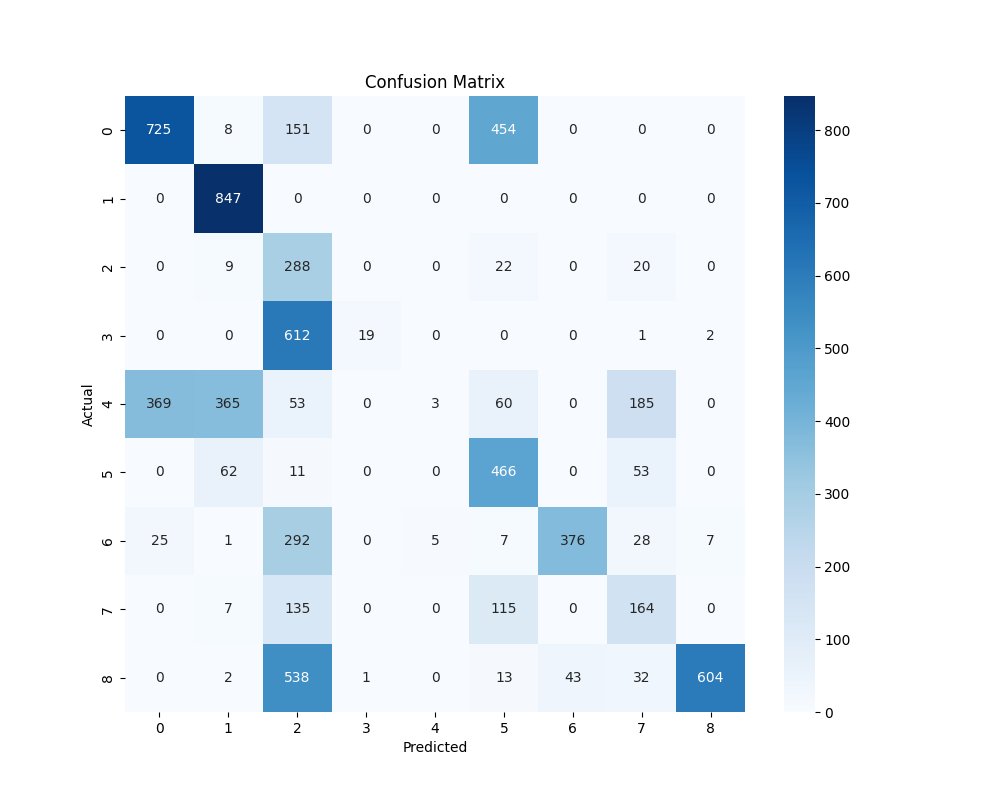
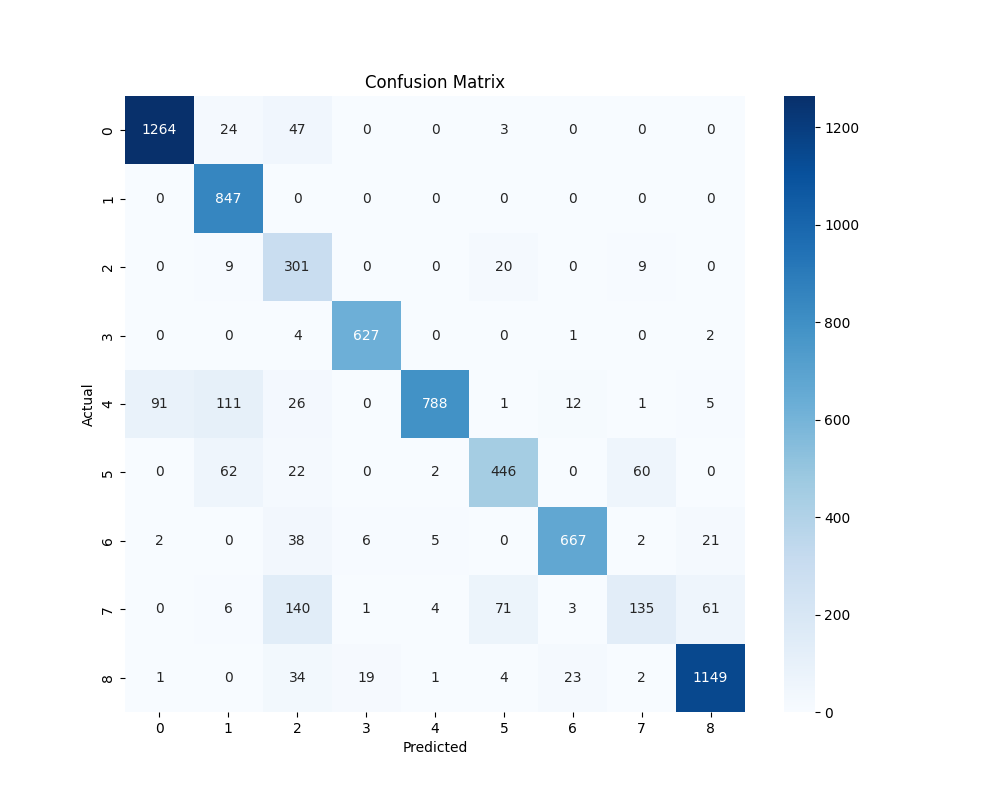
updated simple_cnn to better handle downsampling, updated final result size to 3x3 instead of 4x4 to prevent stretching. updated data_utils.py to normalize mean and variance of data

diff --git a/utils/data_utils.py b/utils/data_utils.py
@@ -1,49 +1,51 @@
 import torch
 import numpy as np
 from medmnist import PathMNIST
+from torchvision import transforms
+from torch.utils.data import Dataset
+
+
+class PathMNISTWrapper(Dataset):
+    def __init__(self, split, transform=None):
+        # Load the original dataset
+        self.dataset = PathMNIST(split=split, download=True)
+        self.transform = transform
+
+    def __len__(self):
+        return len(self.dataset)
+
+    def __getitem__(self, idx):
+        img, label = self.dataset[idx]
+        # img is a PIL image by default in MedMNIST
+        
+        if self.transform:
+            img = self.transform(img)
+        
+        return img, torch.tensor(label[0]).long()
 
 def load_data():
-    """Load PathMNIST dataset with correct channel order for PyTorch"""
-    
-    # load training, validation, and test datasets. download automatically if not cached
-    print("Loading PathMNIST datasets...")
-    train_dataset = PathMNIST(split='train', download=True)
-    val_dataset = PathMNIST(split='val', download=True)
-    test_dataset = PathMNIST(split='test', download=True)
-    
-    def convert_to_correct_format(dataset, dataset_name=""):
-        """Convert MedMNIST format to PyTorch format (C, H, W)"""
-        print(f"   Converting {dataset_name} dataset...")
-        images_list = []
-        labels_list = []
-        
-        # convert for different order, medmnist default is (H, W, C)
-        for img, label in dataset:
-            # img shape is (28, 28, 3) - convert to (3, 28, 28)
-            img = np.transpose(img, (2, 0, 1))
-            images_list.append(img)
-            labels_list.append(label[0])  # Extract scalar from label array
-        
-        # normalize input from (0, 255) (rgb values) to (0, 1). .float = float32 for standard, .long = float64, required for cross-entropy loss
-        images = torch.tensor(np.array(images_list)).float() / 255.0
-        labels = torch.tensor(np.array(labels_list)).long()
-        
-        print(f"      Images shape: {images.shape}")
-        print(f"      Labels shape: {labels.shape}")
-        
-        # return a TensorDataset, wraps all tensors into one set
-        return torch.utils.data.TensorDataset(images, labels)
-    
-    # update and return 
-    train_data = convert_to_correct_format(train_dataset, "training")
-    val_data = convert_to_correct_format(val_dataset, "validation")
-    test_data = convert_to_correct_format(test_dataset, "test")
-    
-    return train_data, val_data, test_data
+    # PathMNIST specific normalization values
+    # These shift the data to have 0 mean and 1 variance
+    norm_mean = [0.7442, 0.5357, 0.7061]
+    norm_std = [0.1232, 0.1768, 0.1244]
 
-# quick test
-if __name__ == "__main__":
-    train, val, test = load_data()
-    print(f"\n Data loading works!")
-    print(f"   Training sample shape: {train[0][0].shape}")
-    print(f"   Training label: {train[0][1]}")
+    # Training augmentation: Helps the model generalize
+    train_transform = transforms.Compose([
+        transforms.RandomHorizontalFlip(),
+        transforms.RandomVerticalFlip(),
+        transforms.RandomRotation(15),
+        transforms.ToTensor(),
+        transforms.Normalize(mean=norm_mean, std=norm_std)
+    ])
+
+    # Val/Test: No augmentation, just normalization
+    test_transform = transforms.Compose([
+        transforms.ToTensor(),
+        transforms.Normalize(mean=norm_mean, std=norm_std)
+    ])
+
+    train_data = PathMNISTWrapper(split='train', transform=train_transform)
+    val_data = PathMNISTWrapper(split='val', transform=test_transform)
+    test_data = PathMNISTWrapper(split='test', transform=test_transform)
+
+    return train_data, val_data, test_data

diff --git a/models/simple_cnn.py b/models/simple_cnn.py
@@ -15,10 +15,13 @@ class SimpleCNN(nn.Module):
         self.conv3 = nn.Conv2d(64, 128, kernel_size=3, padding=1)
         self.bn3 = nn.BatchNorm2d(128)
         self.pool = nn.MaxPool2d(2, 2)
-        self.adaptive_pool = nn.AdaptiveAvgPool2d((4, 4))
-        self.fc1 = nn.Linear(128 * 4 * 4, 256)
+        self.adaptive_pool = nn.AdaptiveAvgPool2d((2, 2))
+        self.fc1 = nn.Linear(128 * 2 * 2, 256)
         self.dropout = nn.Dropout(0.5)
         self.fc2 = nn.Linear(256, num_classes)
+    
+
+    # change: adaptive pool being at 4x4 was not a good value, after downsampling with 2x2 3 times, the final value of the input was 3x3. 4x4 was stretching it, causing blur
     
     def forward(self, x):
         # batch normalization (calculate mean+sd and then shift data)

diff --git a/train.py b/train.py
@@ -60,7 +60,7 @@ print(f"   Device: {device}")
 print(f"   Parameters: {sum(p.numel() for p in model.parameters()):,}")
 
 # Training
-num_epochs = 5
+num_epochs = 10
 train_losses = []
 val_accuracies = []
 best_val_accuracy = 0
